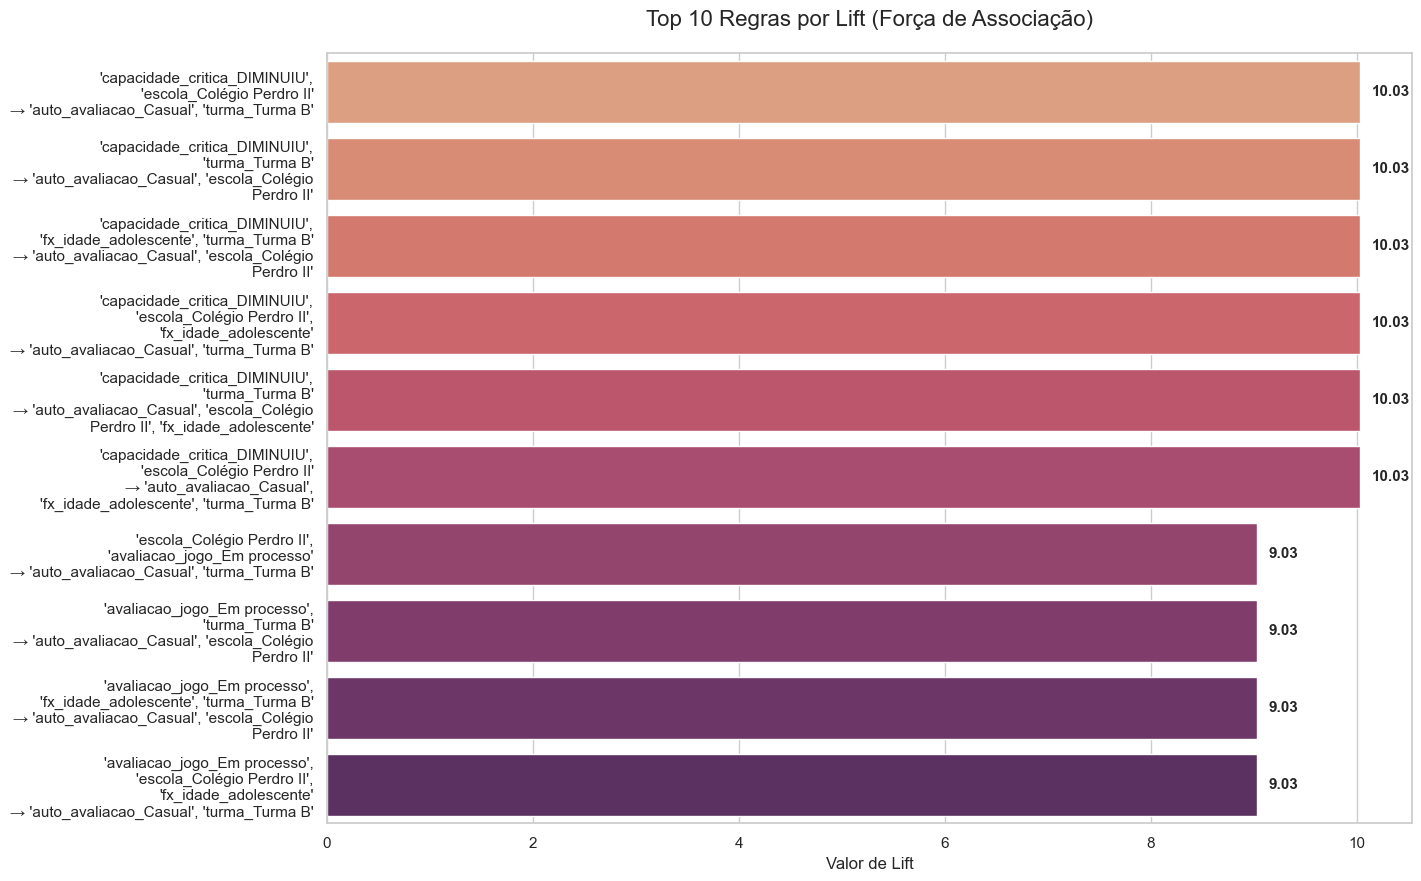
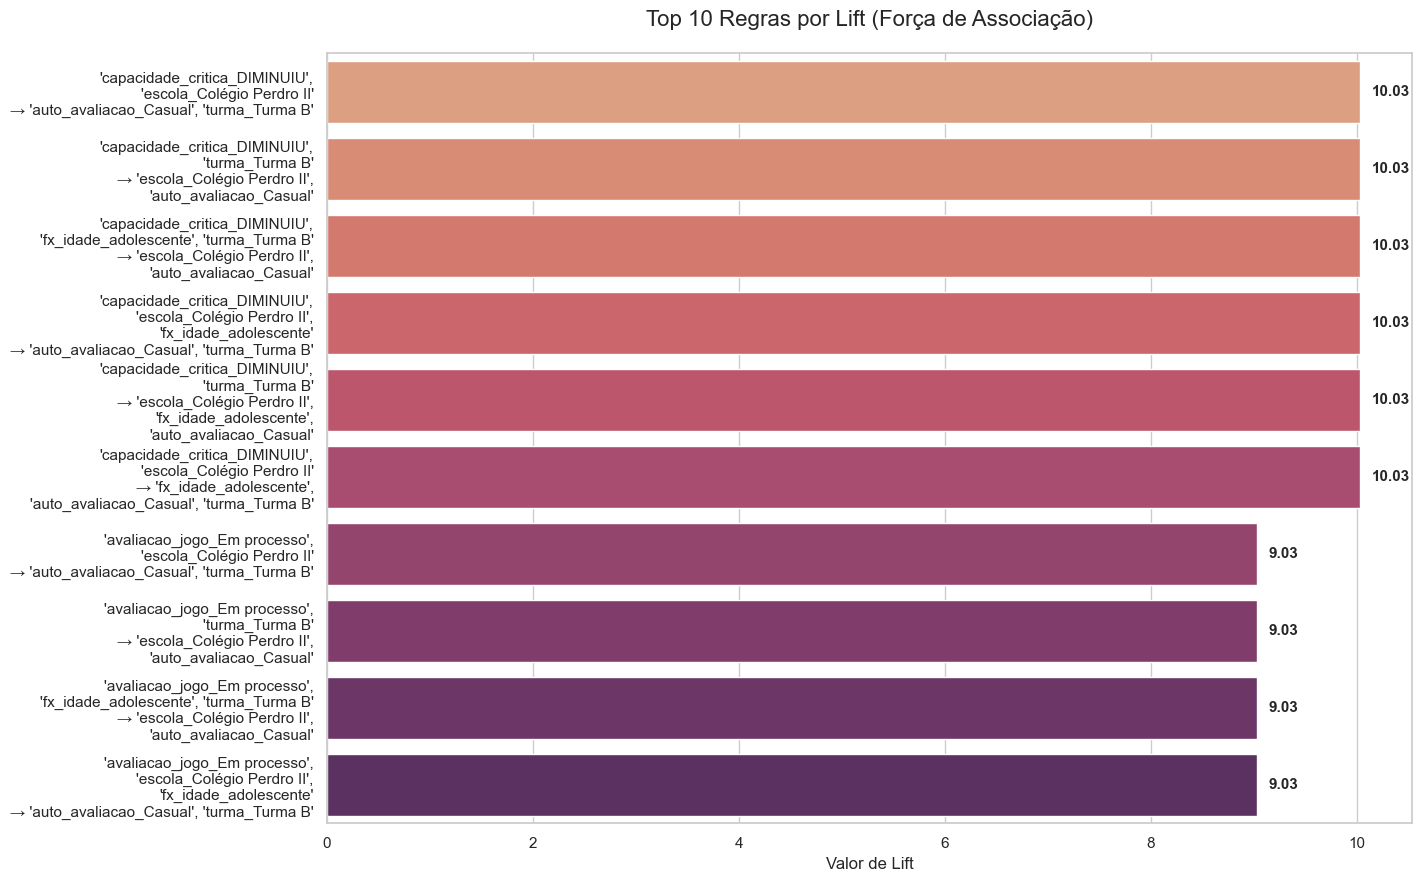
inclusao no servico de graficos, os graficos que sao gerados a partir da criacao das regras

diff --git a/mmd-api/services/graficos.py b/mmd-api/services/graficos.py
@@ -1,5 +1,6 @@
+from typing import List, Dict, Tuple, Any
 from wordcloud import WordCloud
-from api.v1.endpoints.utils.utils import transforma_em_dataframe
+from api.v1.endpoints.utils.utils import transforma_em_dataframe, formata_regra_amigavel
 from api.v1.endpoints.utils.ChartGenerator import chart_tool
 
 class GraficosService:
@@ -170,6 +171,53 @@ class GraficosService:
         except Exception as e:
             print(f"Erro no serviço de gráficos: {e}")
             raise e
+    
+    @staticmethod
+    async def gerar_graficos_e_regras(df_regras) -> Tuple[List[Dict[str, Any]], Dict[str, str]]:
+        try:
+            # Preparação: Criar a coluna de texto formatada
+            df_regras['regra_formatada'] = df_regras.apply(formata_regra_amigavel, axis=1)
+            
+            # Gerar Gráfico de Dispersão (Todas as Regras)
+            path_scatter = "static/regras/img/regras_dispersao.png"
+            await chart_tool.plot_scatter(
+                df=df_regras,
+                path_save=path_scatter,
+                params={
+                    'x': 'support',
+                    'y': 'confidence',
+                    'hue': 'lift',
+                    'size': 'lift',
+                    'titulo': 'Dispersão das Regras (Suporte vs Confiança)'
+                }
+            )
+            
+            # Gerar Gráfico Top 10 (Baseado no Lift)
+            df_top10 = df_regras.nlargest(10, 'lift')
+            path_top10 = "static/regras/img/regras_top10.png"
+            await chart_tool.plot_horizontal_bars(
+                df=df_top10,
+                path_save=path_top10,
+                params={
+                    'x': 'lift',
+                    'y': 'regra_formatada',
+                    'titulo': 'Top 10 Regras por Lift (Força de Associação)',
+                    'label_x': 'Valor de Lift'
+                }
+            )
+
+            # Preparar JSON
+            rules_list = df_regras[['antecedents', 'consequents', 'support', 'confidence', 'lift']].copy()
+            rules_list['antecedents'] = rules_list['antecedents'].apply(list)
+            rules_list['consequents'] = rules_list['consequents'].apply(list)
+            
+            return rules_list.to_dict(orient='records'),{
+                "grafico_lift": path_top10,
+                "grafico_dispersao": path_scatter
+            }
+        except Exception as e:
+            print(f"Erro no serviço de gráficos: {e}")
+            raise e       
     
     @staticmethod
     async def criar_nuvem_palavaras(nuvem: WordCloud, path: str):

diff --git a/mmd-api/api/v1/endpoints/utils/utils.py b/mmd-api/api/v1/endpoints/utils/utils.py
@@ -88,49 +88,3 @@ def formata_regra_amigavel(row, max_width=40):
     con = textwrap.fill(con, width=max_width)
 
     return f"{ant}\n→ {con}"
-
-async def gerar_graficos_e_regras(df_regras: pd.DataFrame) -> Tuple[List[Dict[str, Any]], Dict[str, str]]:
-    try:
-        # 1. Preparação: Criar a coluna de texto formatada
-        df_regras['regra_formatada'] = df_regras.apply(formata_regra_amigavel, axis=1)
-        
-        # 2. Gerar Gráfico de Dispersão (Todas as Regras)
-        path_scatter = "static/regras/img/regras_dispersao.png"
-        await chart_tool.plot_scatter(
-            df=df_regras,
-            path_save=path_scatter,
-            params={
-                'x': 'support',
-                'y': 'confidence',
-                'hue': 'lift',
-                'size': 'lift',
-                'titulo': 'Dispersão das Regras (Suporte vs Confiança)'
-            }
-        )
-        
-        # 3. Gerar Gráfico Top 10 (Baseado no Lift)
-        df_top10 = df_regras.nlargest(10, 'lift')
-        path_top10 = "static/regras/img/regras_top10.png"
-        await chart_tool.plot_horizontal_bars(
-            df=df_top10,
-            path_save=path_top10,
-            params={
-                'x': 'lift',
-                'y': 'regra_formatada',
-                'titulo': 'Top 10 Regras por Lift (Força de Associação)',
-                'label_x': 'Valor de Lift'
-            }
-        )
-
-        # Preparar JSON
-        rules_list = df_regras[['antecedents', 'consequents', 'support', 'confidence', 'lift']].copy()
-        rules_list['antecedents'] = rules_list['antecedents'].apply(list)
-        rules_list['consequents'] = rules_list['consequents'].apply(list)
-        
-        return rules_list.to_dict(orient='records'),{
-            "grafico_lift": path_top10,
-            "grafico_dispersao": path_scatter
-        }
-    except Exception as e:
-        print(f"Erro durante o processo de Gerar Gráfico de Regras: {e}")
-        raise e

diff --git a/mmd-api/services/regras.py b/mmd-api/services/regras.py
@@ -1,13 +1,18 @@
 import pandas as pd
 import numpy as np
 from mlxtend.frequent_patterns import apriori, association_rules
+from services.graficos import GraficosService
 from api.v1.endpoints.utils.utils import (
-    transforma_em_dataframe, discretizar_coluna, 
-    colunas_desejadas, gerar_graficos_e_regras
+    transforma_em_dataframe,
+    discretizar_coluna, 
+    colunas_desejadas
 )
 
 class RegrasService:
     async def processar_regras_associacao(self, data):
+        # Instancia a camada de serviços resposável pela geração dos gráficos
+        graficos = GraficosService()
+        
         # Transformação inicial
         df = await transforma_em_dataframe(data)
             
@@ -31,5 +36,5 @@ class RegrasService:
             return None, None
         
         # Geração de saídas (JSON e Imagens)
-        regras_json, links_imagens = await gerar_graficos_e_regras(rules)
+        regras_json, links_imagens = await graficos.gerar_graficos_e_regras(rules)
         return regras_json, links_imagens

diff --git a/mmd-api/api/v1/endpoints/regras.py b/mmd-api/api/v1/endpoints/regras.py
@@ -7,7 +7,6 @@ from repositories.regras_repository import RegrasRepository
 from services.regras import RegrasService
 from schemas.vwapriori_schema import RespostaApriorSchema
 from core.deps import get_session_JEDi, get_current_user
-from api.v1.endpoints.utils.utils import transforma_em_dataframe, colunas_desejadas, discretizar_coluna, gerar_graficos_e_regras
 
 router = APIRouter(redirect_slashes=False)
 
@@ -16,8 +15,8 @@ router = APIRouter(redirect_slashes=False)
 async def get_rules(request: Request, usuario_logado: UsuarioModel = Depends(get_current_user), db: AsyncSession = Depends(get_session_JEDi)):
     try:
         # Instancia o repositório passando a sessão do banco e a camada de serviços
-        repo    = RegrasRepository(db)
-        service = RegrasService()
+        repo     = RegrasRepository(db)
+        service  = RegrasService()
         
         # Chama a camada de dados de forma isolada
         data = await repo.get_dados_mineracao()
